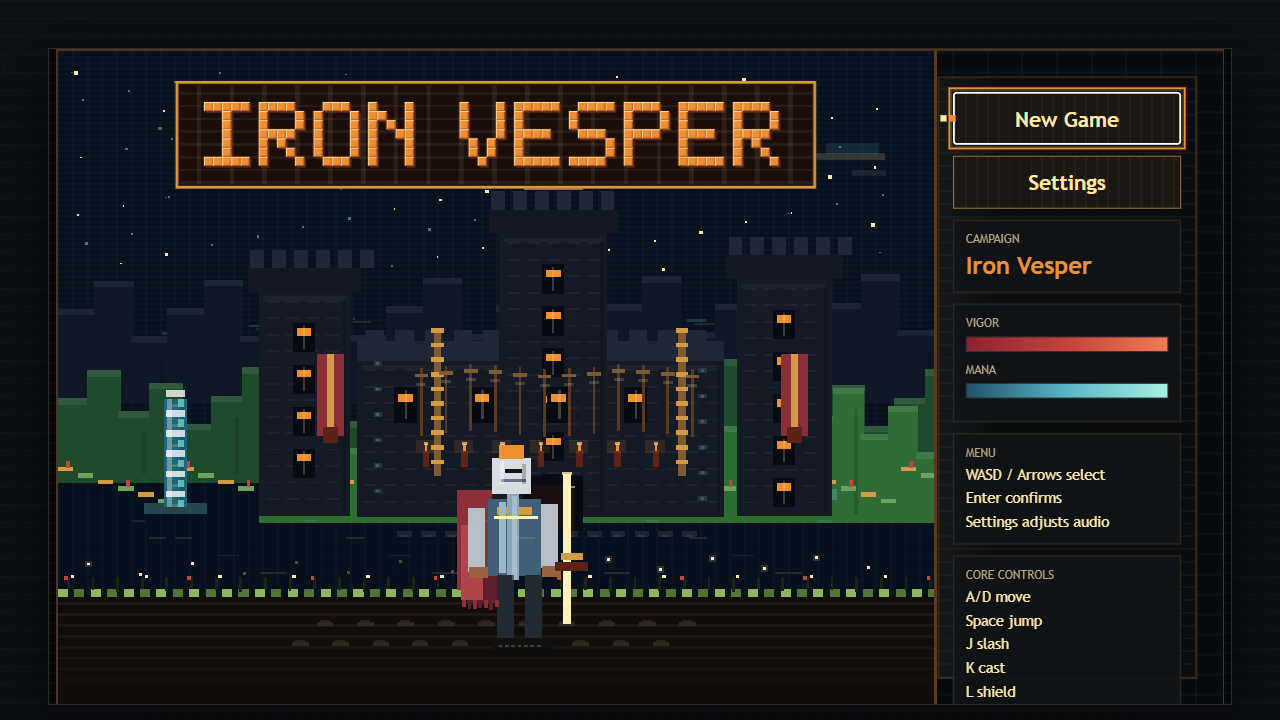
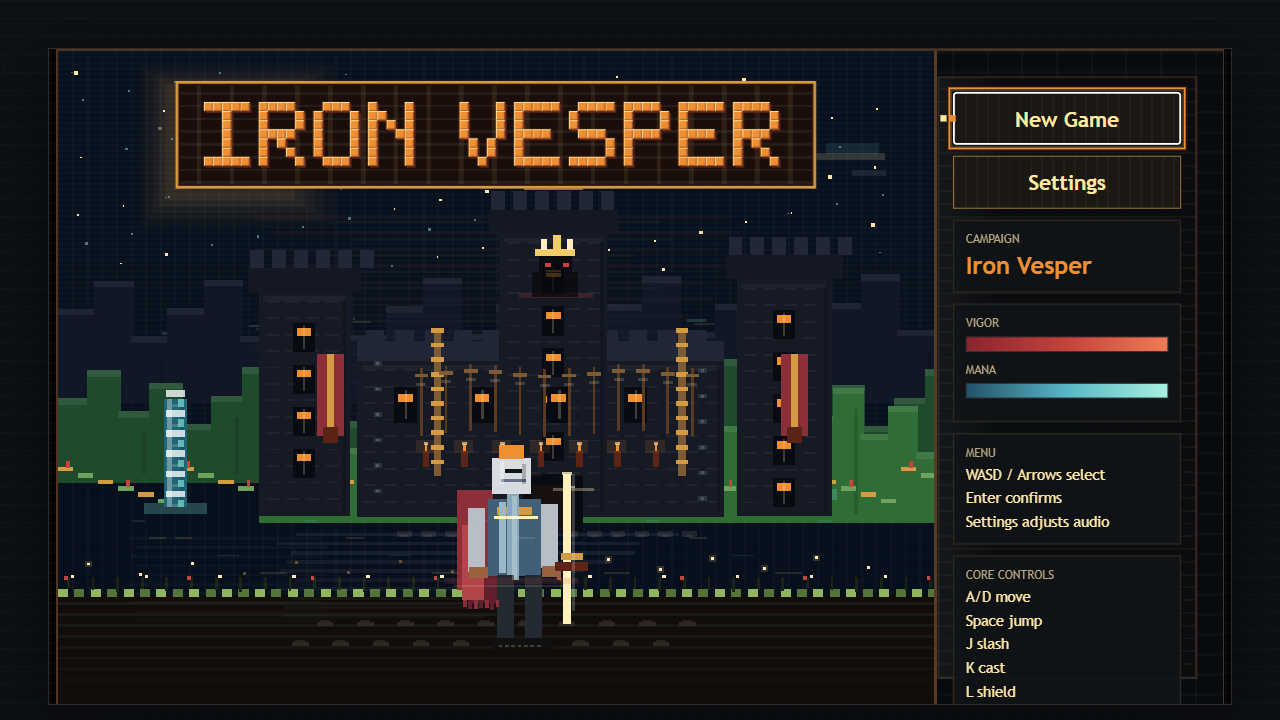
Refine title cover art

diff --git a/game.js b/game.js
@@ -267,6 +267,9 @@ function drawTitleCanvas() {
 
   r(142, 58, 88, 88, "#f2a34a");
   r(166, 70, 76, 76, "#07101d");
+  for (let i = 0; i < 5; i++) r(118 - i * 7, 36 - i * 5, 142 + i * 18, 128 + i * 12, `rgba(242,163,74,${0.055 - i * 0.008})`);
+  r(153, 65, 28, 6, "rgba(255,241,189,.34)");
+  r(136, 110, 18, 4, "rgba(255,241,189,.22)");
   r(129, 49, 8, 8, "rgba(255,231,165,.45)");
   r(110, 83, 4, 4, "rgba(255,231,165,.35)");
   for (let i = 0; i < 95; i++) {
@@ -301,6 +304,11 @@ function drawTitleCanvas() {
   mountain(386, "#101827", "rgba(255,255,255,.055)", -40, 40, 28, 72, 92);
   mountain(474, "#1f4b2d", "rgba(255,255,255,.08)", -36, 34, 34, 62, 76);
   mountain(518, "#2f6c36", "rgba(255,255,255,.085)", 220, 30, 30, 72, 82);
+  for (let y = 180; y < 472; y += 18) {
+    const a = (y - 164) / 420;
+    r(216 + (y % 36), y, 522 - (y - 180) * 0.42, 5, `rgba(198,66,60,${0.05 * (1 - a)})`);
+    r(286 + (y % 54), y + 7, 356 - (y - 180) * 0.28, 3, `rgba(243,204,103,${0.035 * (1 - a)})`);
+  }
   for (let x = 0; x < sceneW; x += 22) {
     const y = 456 + ((x / 22) % 6) * 7;
     r(x, y, 17, 5, x % 44 ? "#6ea35f" : "#d59b44");
@@ -353,6 +361,17 @@ function drawTitleCanvas() {
   tower(cx + 28, cy + 50, 100, 246);
   tower(cx + 292, cy - 14, 118, 310, true);
   tower(cx + 552, cy + 36, 104, 260);
+  const kingOmenX = cx + 344;
+  const kingOmenY = cy + 8 + Math.floor(Math.sin(t / 18) * 2);
+  r(kingOmenX - 31, kingOmenY + 42, 82, 6, "rgba(198,66,60,.2)");
+  r(kingOmenX - 16, kingOmenY + 19, 50, 28, "rgba(7,9,12,.72)");
+  r(kingOmenX - 9, kingOmenY + 2, 36, 18, "rgba(7,9,12,.8)");
+  r(kingOmenX - 13, kingOmenY - 6, 44, 8, "#f3cc67");
+  r(kingOmenX - 7, kingOmenY - 17, 7, 12, "#fff1bd");
+  r(kingOmenX + 7, kingOmenY - 21, 8, 16, "#f3cc67");
+  r(kingOmenX + 22, kingOmenY - 17, 7, 12, "#fff1bd");
+  r(kingOmenX - 2, kingOmenY + 10, 6, 4, "#c6423c");
+  r(kingOmenX + 18, kingOmenY + 10, 6, 4, "#c6423c");
   r(cx + 318, cy + 252, 66, 60, "#080b12");
   r(cx + 328, cy + 262, 46, 50, "#17100e");
   for (let x = cx + 176; x < cx + 510; x += 84) {
@@ -406,6 +425,11 @@ function drawTitleCanvas() {
     const fade = (720 - y) / 116;
     r(0, y, sceneW, 3, `rgba(116,209,199,${0.08 * fade})`);
   }
+  for (let y = 528; y < 620; y += 10) {
+    const drift = Math.sin(t / 24 + y) * 11;
+    r(250 + drift, y, 420 - (y - 528) * 2.2, 4, `rgba(215,220,225,${0.08 - (y - 528) * 0.00055})`);
+    r(82 - drift * 0.4, y + 5, 210, 3, `rgba(116,209,199,${0.045 - (y - 528) * 0.0003})`);
+  }
   for (let x = 260; x < 695; x += 22) {
     const offset = Math.floor(Math.sin(t / 20 + x) * 4);
     r(x + offset, 608 + (x % 44), 18, 4, "rgba(58,48,41,.72)");
@@ -441,6 +465,10 @@ function drawTitleCanvas() {
   r(kx + 79, ky + 18, 8, 164, "#fff1bd");
   r(kx + 76, ky + 104, 25, 8, "#d59b44");
   r(kx + 70, ky + 114, 36, 10, "#5b2417");
+  r(kx + 68, ky + 30 + (wave % 5), 45, 3, "rgba(255,241,189,.32)");
+  r(kx + 88, ky + 18, 4, 150, "rgba(255,255,255,.18)");
+  r(kx - 52, ky + 132, 148, 6, "rgba(198,66,60,.14)");
+  r(kx - 41, ky + 139, 122, 3, "rgba(255,241,189,.12)");
   r(kx + 10, ky + 4, 4, 25, "rgba(255,255,255,.32)");
   r(kx + 34, ky + 7, 4, 22, "rgba(0,0,0,.22)");
   r(kx + 3, ky + 64, 48, 3, "#fff1bd");

diff --git a/release/Iron-Vesper-Playable/game.js b/release/Iron-Vesper-Playable/game.js
@@ -267,6 +267,9 @@ function drawTitleCanvas() {
 
   r(142, 58, 88, 88, "#f2a34a");
   r(166, 70, 76, 76, "#07101d");
+  for (let i = 0; i < 5; i++) r(118 - i * 7, 36 - i * 5, 142 + i * 18, 128 + i * 12, `rgba(242,163,74,${0.055 - i * 0.008})`);
+  r(153, 65, 28, 6, "rgba(255,241,189,.34)");
+  r(136, 110, 18, 4, "rgba(255,241,189,.22)");
   r(129, 49, 8, 8, "rgba(255,231,165,.45)");
   r(110, 83, 4, 4, "rgba(255,231,165,.35)");
   for (let i = 0; i < 95; i++) {
@@ -301,6 +304,11 @@ function drawTitleCanvas() {
   mountain(386, "#101827", "rgba(255,255,255,.055)", -40, 40, 28, 72, 92);
   mountain(474, "#1f4b2d", "rgba(255,255,255,.08)", -36, 34, 34, 62, 76);
   mountain(518, "#2f6c36", "rgba(255,255,255,.085)", 220, 30, 30, 72, 82);
+  for (let y = 180; y < 472; y += 18) {
+    const a = (y - 164) / 420;
+    r(216 + (y % 36), y, 522 - (y - 180) * 0.42, 5, `rgba(198,66,60,${0.05 * (1 - a)})`);
+    r(286 + (y % 54), y + 7, 356 - (y - 180) * 0.28, 3, `rgba(243,204,103,${0.035 * (1 - a)})`);
+  }
   for (let x = 0; x < sceneW; x += 22) {
     const y = 456 + ((x / 22) % 6) * 7;
     r(x, y, 17, 5, x % 44 ? "#6ea35f" : "#d59b44");
@@ -353,6 +361,17 @@ function drawTitleCanvas() {
   tower(cx + 28, cy + 50, 100, 246);
   tower(cx + 292, cy - 14, 118, 310, true);
   tower(cx + 552, cy + 36, 104, 260);
+  const kingOmenX = cx + 344;
+  const kingOmenY = cy + 8 + Math.floor(Math.sin(t / 18) * 2);
+  r(kingOmenX - 31, kingOmenY + 42, 82, 6, "rgba(198,66,60,.2)");
+  r(kingOmenX - 16, kingOmenY + 19, 50, 28, "rgba(7,9,12,.72)");
+  r(kingOmenX - 9, kingOmenY + 2, 36, 18, "rgba(7,9,12,.8)");
+  r(kingOmenX - 13, kingOmenY - 6, 44, 8, "#f3cc67");
+  r(kingOmenX - 7, kingOmenY - 17, 7, 12, "#fff1bd");
+  r(kingOmenX + 7, kingOmenY - 21, 8, 16, "#f3cc67");
+  r(kingOmenX + 22, kingOmenY - 17, 7, 12, "#fff1bd");
+  r(kingOmenX - 2, kingOmenY + 10, 6, 4, "#c6423c");
+  r(kingOmenX + 18, kingOmenY + 10, 6, 4, "#c6423c");
   r(cx + 318, cy + 252, 66, 60, "#080b12");
   r(cx + 328, cy + 262, 46, 50, "#17100e");
   for (let x = cx + 176; x < cx + 510; x += 84) {
@@ -406,6 +425,11 @@ function drawTitleCanvas() {
     const fade = (720 - y) / 116;
     r(0, y, sceneW, 3, `rgba(116,209,199,${0.08 * fade})`);
   }
+  for (let y = 528; y < 620; y += 10) {
+    const drift = Math.sin(t / 24 + y) * 11;
+    r(250 + drift, y, 420 - (y - 528) * 2.2, 4, `rgba(215,220,225,${0.08 - (y - 528) * 0.00055})`);
+    r(82 - drift * 0.4, y + 5, 210, 3, `rgba(116,209,199,${0.045 - (y - 528) * 0.0003})`);
+  }
   for (let x = 260; x < 695; x += 22) {
     const offset = Math.floor(Math.sin(t / 20 + x) * 4);
     r(x + offset, 608 + (x % 44), 18, 4, "rgba(58,48,41,.72)");
@@ -441,6 +465,10 @@ function drawTitleCanvas() {
   r(kx + 79, ky + 18, 8, 164, "#fff1bd");
   r(kx + 76, ky + 104, 25, 8, "#d59b44");
   r(kx + 70, ky + 114, 36, 10, "#5b2417");
+  r(kx + 68, ky + 30 + (wave % 5), 45, 3, "rgba(255,241,189,.32)");
+  r(kx + 88, ky + 18, 4, 150, "rgba(255,255,255,.18)");
+  r(kx - 52, ky + 132, 148, 6, "rgba(198,66,60,.14)");
+  r(kx - 41, ky + 139, 122, 3, "rgba(255,241,189,.12)");
   r(kx + 10, ky + 4, 4, 25, "rgba(255,255,255,.32)");
   r(kx + 34, ky + 7, 4, 22, "rgba(0,0,0,.22)");
   r(kx + 3, ky + 64, 48, 3, "#fff1bd");

diff --git a/index.html b/index.html
@@ -173,6 +173,6 @@
         </div>
       </aside>
     </main>
-    <script src="game.js?v=1.0.1"></script>
+    <script src="game.js?v=1.0.2"></script>
   </body>
 </html>

diff --git a/release/Iron-Vesper-Playable/index.html b/release/Iron-Vesper-Playable/index.html
@@ -173,6 +173,6 @@
         </div>
       </aside>
     </main>
-    <script src="game.js?v=1.0.1"></script>
+    <script src="game.js?v=1.0.2"></script>
   </body>
 </html>
